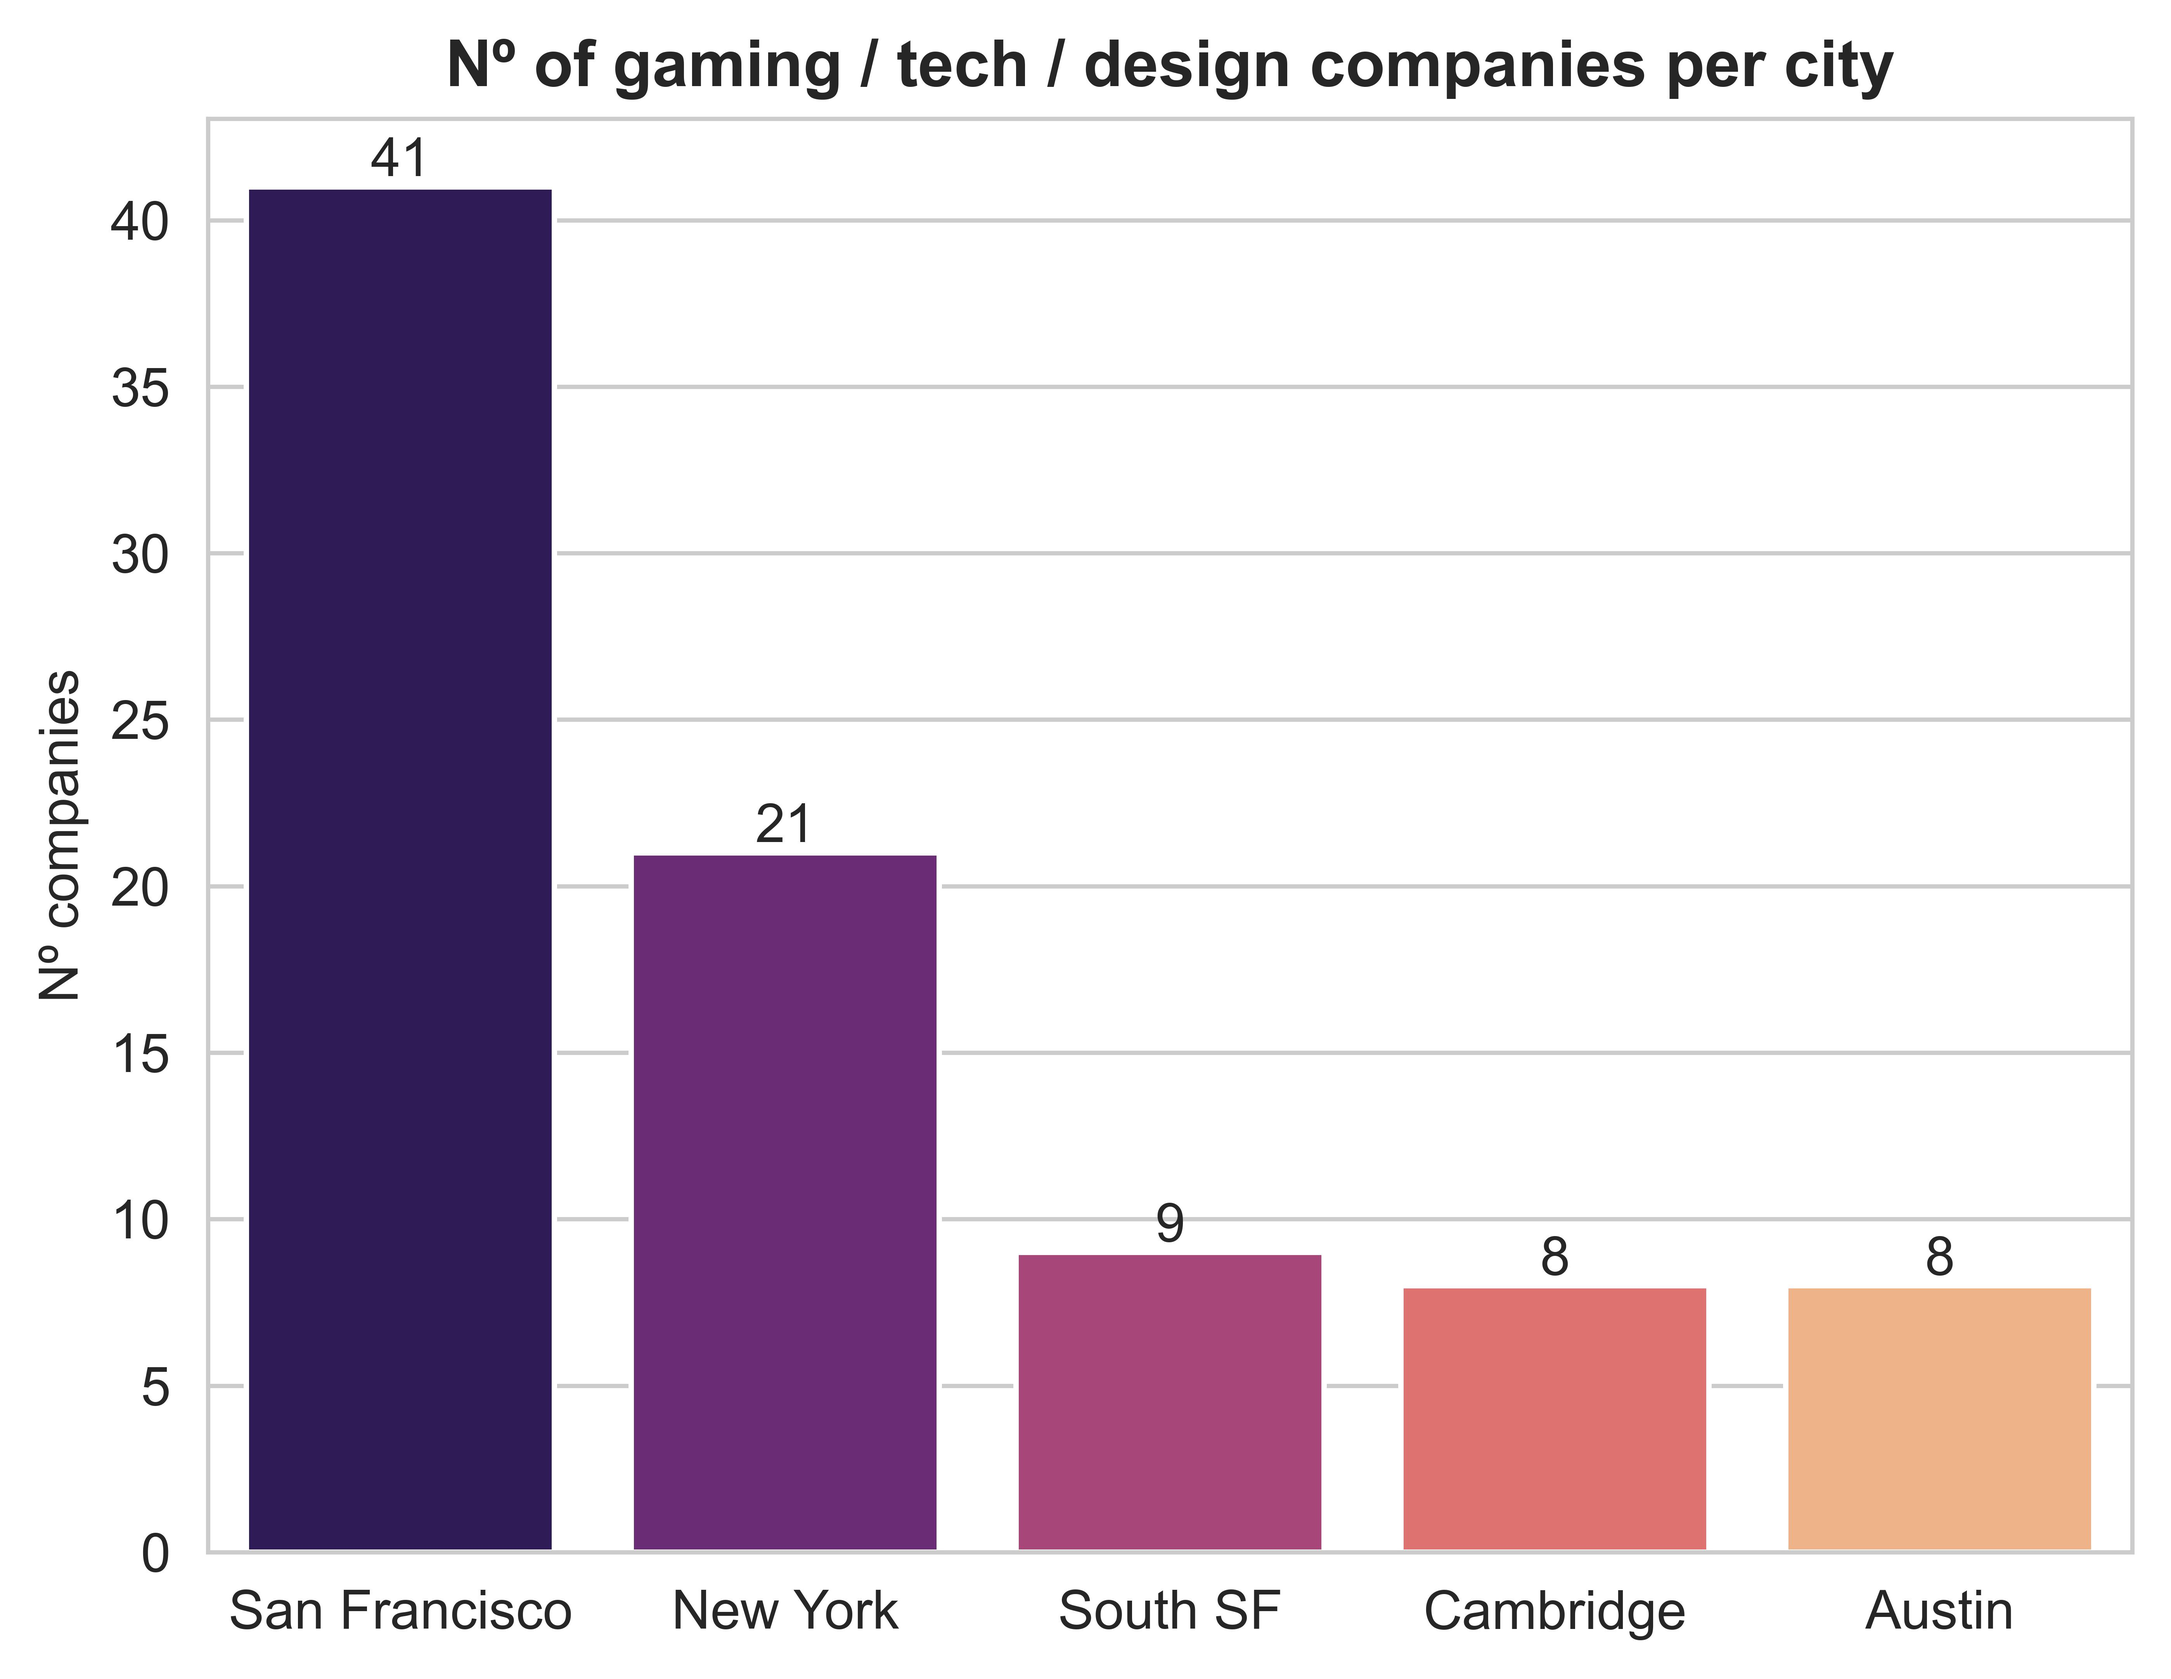
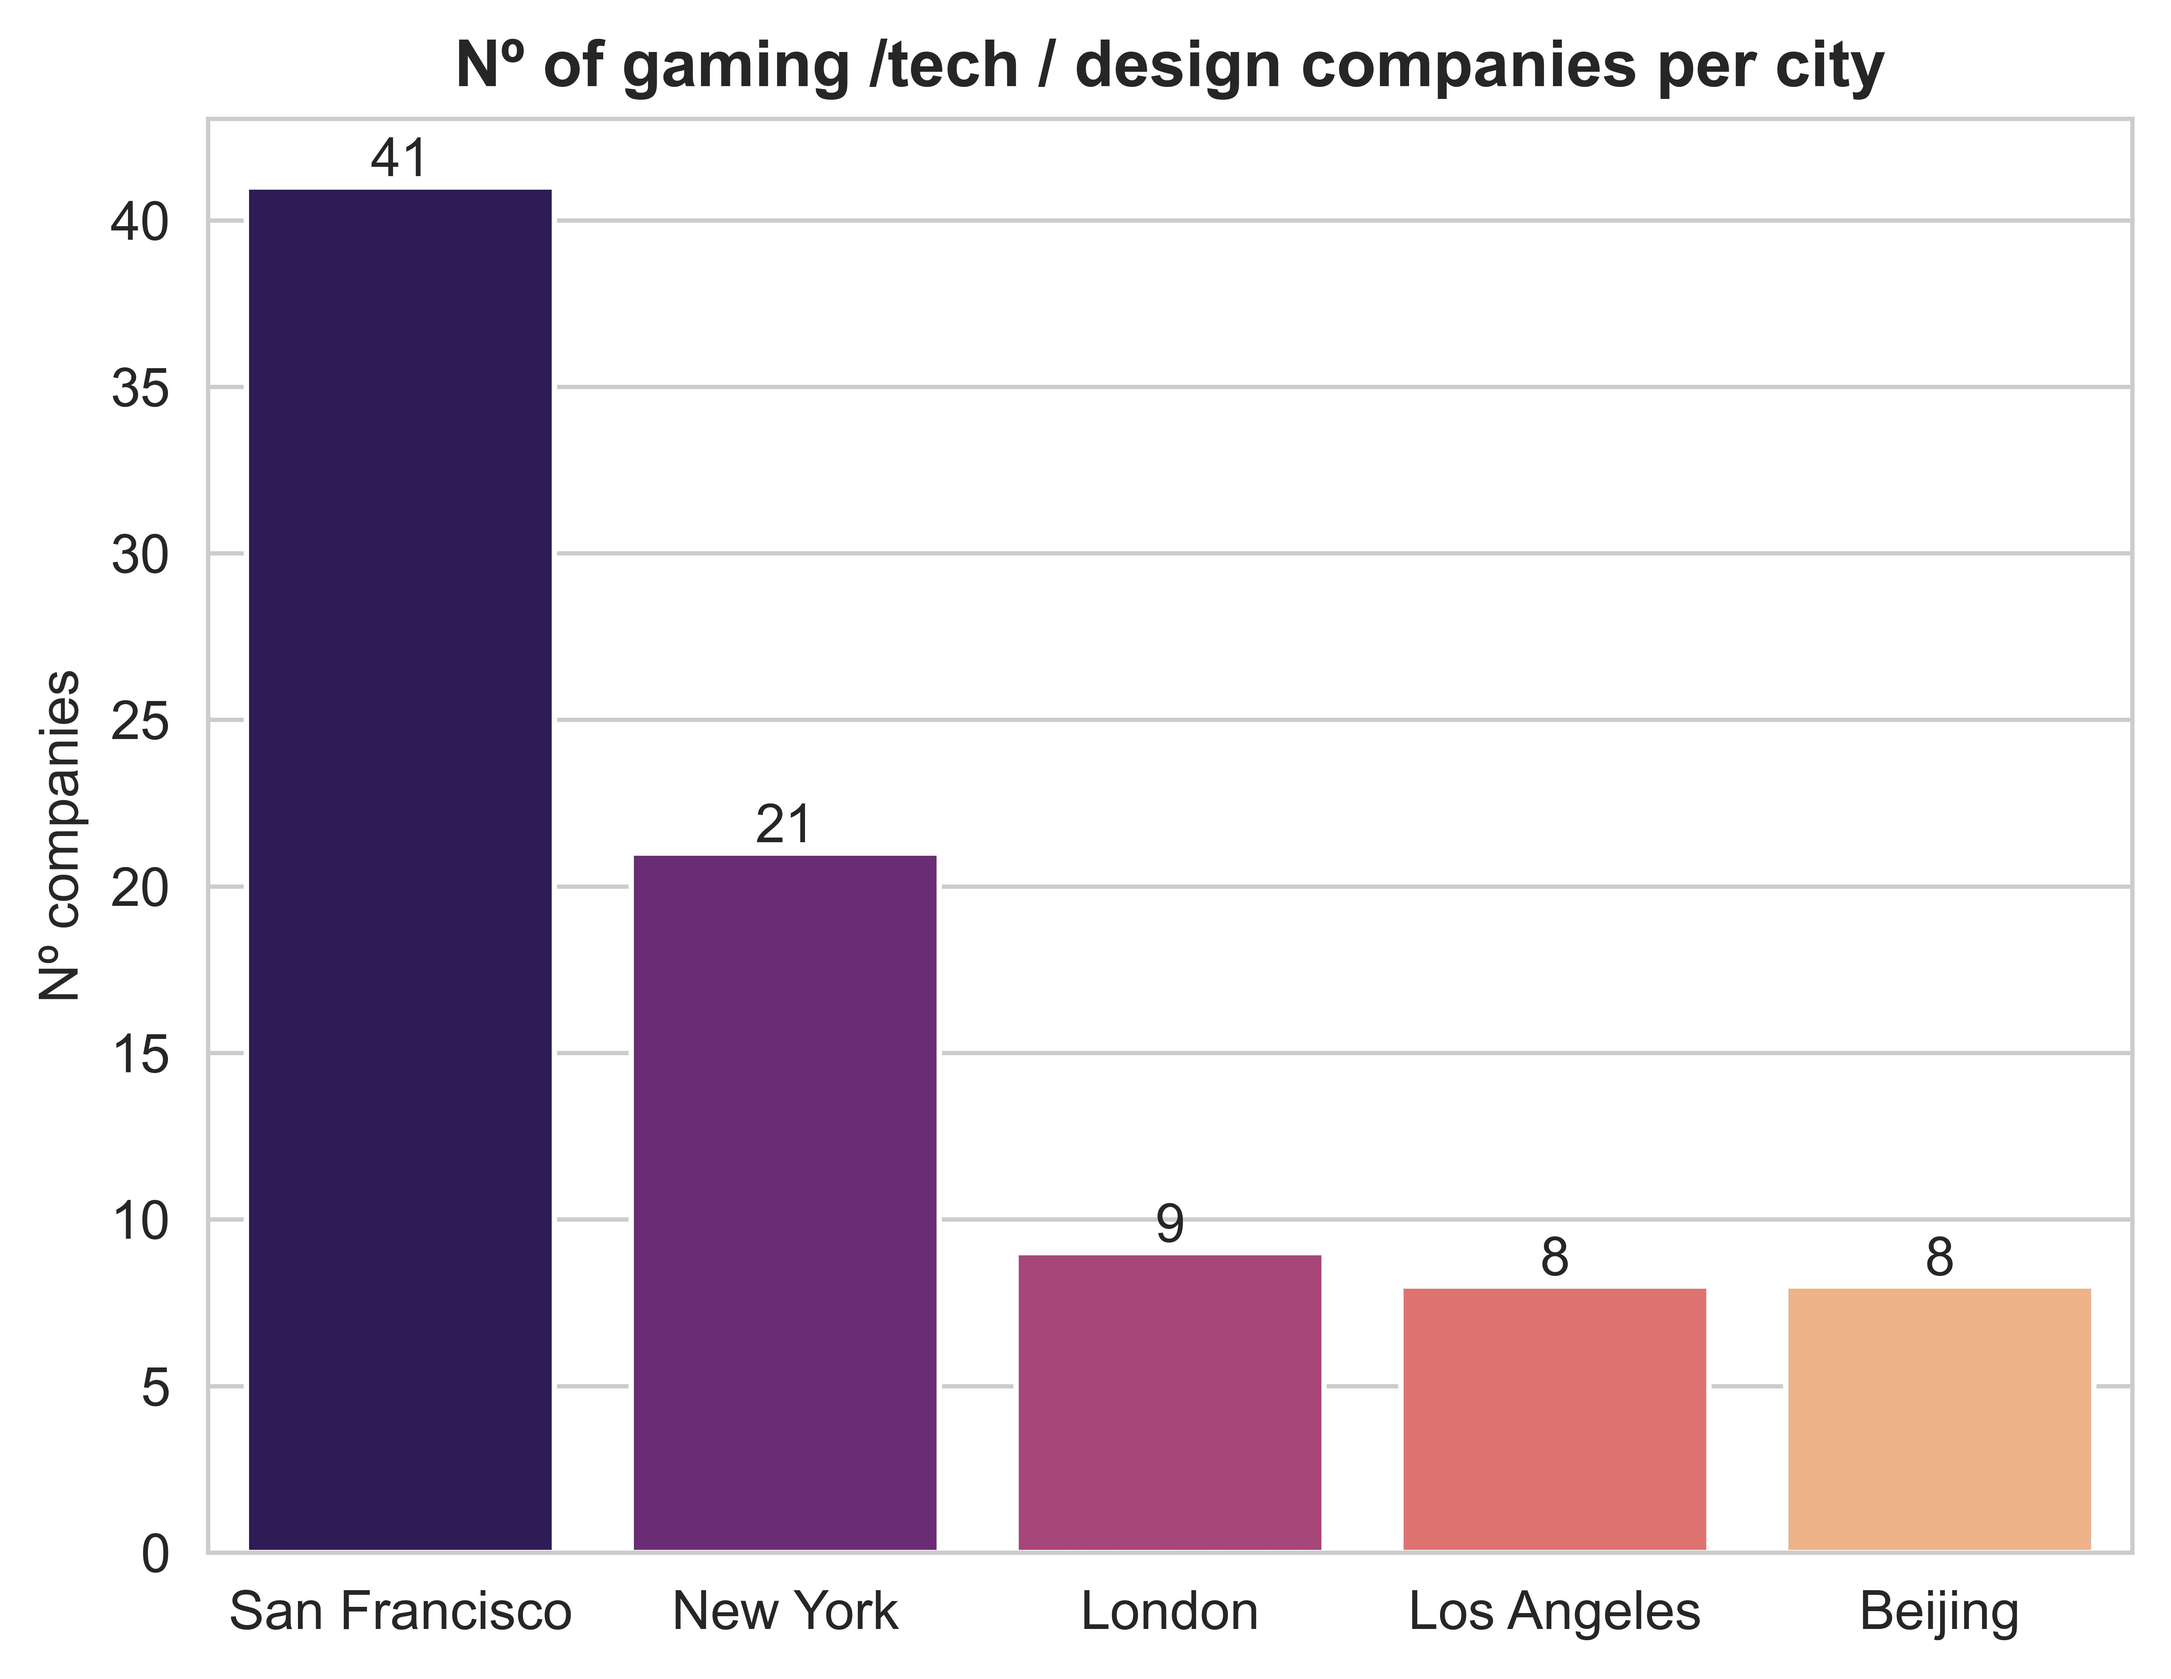
updated readme, added figures

diff --git a/README.md b/README.md
@@ -3,7 +3,7 @@
 
 ## 1- Main objective
 
-The goal of this project was to find the best spot (worldwide) to place the offices of a newly created company in the **gaming industry** taking into account the preferences of the employees.
+The goal of this project was to find the best spot/city (worldwide) to place the offices of a newly created company in the **gaming industry** taking into account the preferences of the employees.
 
 ![gaming](images/title_image.jpg)
 
@@ -11,26 +11,34 @@ The goal of this project was to find the best spot (worldwide) to place the offi
 The starting point is a collection composed of roughly 18,000 companies, which needed to be **filtered** according to the needs of the company, mainly:
 
 - To be in a city with a gaming industry hub: this is a gaming company, which woud like to outsource and establsih collaborations with other companies in the industry.
-- To be in a city with successful companies in the design and tech industries, as it is required by roughly **40%** of our employees (designers and developers).
+- To be in a city with successful (>$1M money raised) companies in the design and tech industries, as it is required by roughly **40%** of our employees (designers and developers).
 
-Out of the ~18,000 companies, **285** are purely gaming companies (**gaming hub**). If *design* and *tech* tags are included in the filters (**gaming-tech-design hub**), then **430** companies remain. The top cities in each case are:
+Out of the ~18,000 companies, **285** are purely gaming companies (**gaming hub**). If *design* and *tech* tags are included in the filters (**gaming-tech-design hub**), then **430** companies remain. The top five cities in each case are:
 
-<img src="images/number_companies_gaming.jpg" width="400"/> <img src="images/number_companies.jpg" width="400"/>
+<img src="images/number_companies_gaming.jpg" width="420"/> <img src="images/number_companies.jpg" width="420"/>
 
-Based on these results, four cities were chosen to conduct further analysis: San Francisco, New York, South San Francisco (for its proximity to San Francisco) and London.
+*Note: less nº of companies are observed in San Francisco when considering the gaming-tech-design hub because an additional categorical filter was applied in order to narrow the search.*
 
-#### Stealing coordinates:
+Based on this, four cities were chosen for further analysis: San Francisco, New York, South San Francisco (for its proximity to San Francisco) and London. 
+
+#### Stealing coordinates
 - The filtered companies were mapped on each of these cities. 
-- The most centric company was chosen and its coordinates used for requesting the remaining requirements in **Foursquare**.
+- The **most centric company (the one surrounded by all the other companies)** was chosen and its coordinates were used for requesting the remaining requirements of the employees in [Foursquare](https://location.foursquare.com/developer/reference/place-search).
 
-**Figure:** maps of San Francisco (left) and New York (right).
-*The red arrow indicates the most centric company.*
+The following figure shows the maps of San Francisco (left) and New York (right). The red arrow indicates the most centric company.
 
 <img src="images/sanfran_companies_modified.jpg" width="236.5"/> <img src="images/newyork_companies_modfied.jpg" width="270"/>
 
 ## 3- API requests
 
-Based on the employees' requirements, Foursquare was requested for: the **query** (string, first parameter), the **city** (coordinates), the **radius** of the search (first number), the **category** in foursquare (second number) (not always used, only in the `getFoursquareCategory` function), and I **limited** the response to 5 results. The resuls were sorted by distance:
+Based on the employees' requirements, foursquare was used to request information. The function was built taking the following parameters: 
+- The **query** in foursquare (string).
+- The **city** (corresponding to the coordinates of the *most centric* company).
+- The **radius** of the search (first number, in meters).
+- The **category** in foursquare (second number, a foursquare ID).
+- The maximum number of results to return (**limit**). 
+
+The resuls were sorted by **distance**. The requirements of the employees can be seen below:
 
 ```python
 schools = getFoursquareCategory("school", city, 2000, 12058, token_fsq, limit=5)
@@ -44,9 +52,52 @@ vegan = getFoursquareCategory("vegan restaurant", city, 2000, 13377, token_fsq, 
 
 ## 4- Building distance tables
 
-Next, the distance between the the chosen coordinates and each category (query) was extracted or calculated (in the case of the nearby companies, which are the companies obtained from )
+Next, the **distance** between the chosen coordinates and each category (*query* in foursquare) was extracted from the results of the request. In the case of the **nearby companies**, which were also included in the final table, the distance was calculated using a function that considered their latitude and longitude coordinate values.
 
-![distance_table](images/south_sanfran_weighted_table.jpg)
+**Considerations:**
+- Each category was assigned a **weight** value according to their importance. This is a value that goes from 0 to 1, and adds up to 1 all categories considered. The **importance** was decided based on two main factors: 
+    1. The **amount of employees** that have that requirement.
+    2. How common it is to find that requirement in a city.  
+- For each category, an average distance was calculated. This **favoured** having more options where to choose within a given category. The average distance was then multiplied by the respective weighting factor.
+- If a requirement was not found for a given search radius (*NaN* in 'counts' and 'sum_distance'), it was **penalized** by adding that radius as the average distance (see the table below from South San Francisco as an example):
 
+![south_sanfran](images/south_sanfran_weighted_table.jpg)
 
-![score](images/score_table.jpg)
+## 5- Final score
+
+In order to calculate a final score, the weighted averaged distances were added. The final score was normalized as **percentage** based on the **minimum value of the comparison**. Thus, a score of 100% is the perfect score between the compared cities, and values (N) above 100 indicate that the categories are, in average, **+ N % more distant** from the company's coordinates.
+
+And the winner is... **San Francisco!** 
+New York came as a close second.
+
+<img src="images/final_score.jpg" width="500"/>
+
+<br>
+<br>
+
+![San_Francisco](images/sanfrancisco_panorama.jpg)
+
+## 6- Building maps
+
+Finally, interactive maps were built for each city. Markers were added and visualized with different icons and colors depending on the category. For clarification, see the legend below the pictures.
+
+Click here to see the maps of: [San Francisco](images/sanfran_map.html), [New York](images/newyork_map.html), [South San Francisco](images/south_sanfran_map.html) and [London](images/london_map.html).
+
+#### Map of San Francisco
+![map_sanfrancisco](images/sanfran_map.jpg)
+
+#### Map of New York
+![map_newyork](images/newyork_map.jpg)
+
+<br>
+
+| Category                         | Icon           | Color     |
+| -------------------------------- | -------------- | --------- |
+| Airports                         | Plane          | Purple    |
+| Basketball stadiums              | Football ball  | Orange    |
+| Night clubs                      | Cocktail glass | Red       |
+| Dog grooming                     | Paw            | Lightgray |
+| Schools                          | Graduation cap | Blue      |
+| Starbucks                        | Coffee mug     | Gray      |
+| Vegan restaurants                | Cutlery        | Green     |
+| Gaming / tech / design companies | Building       | Lightred  |
